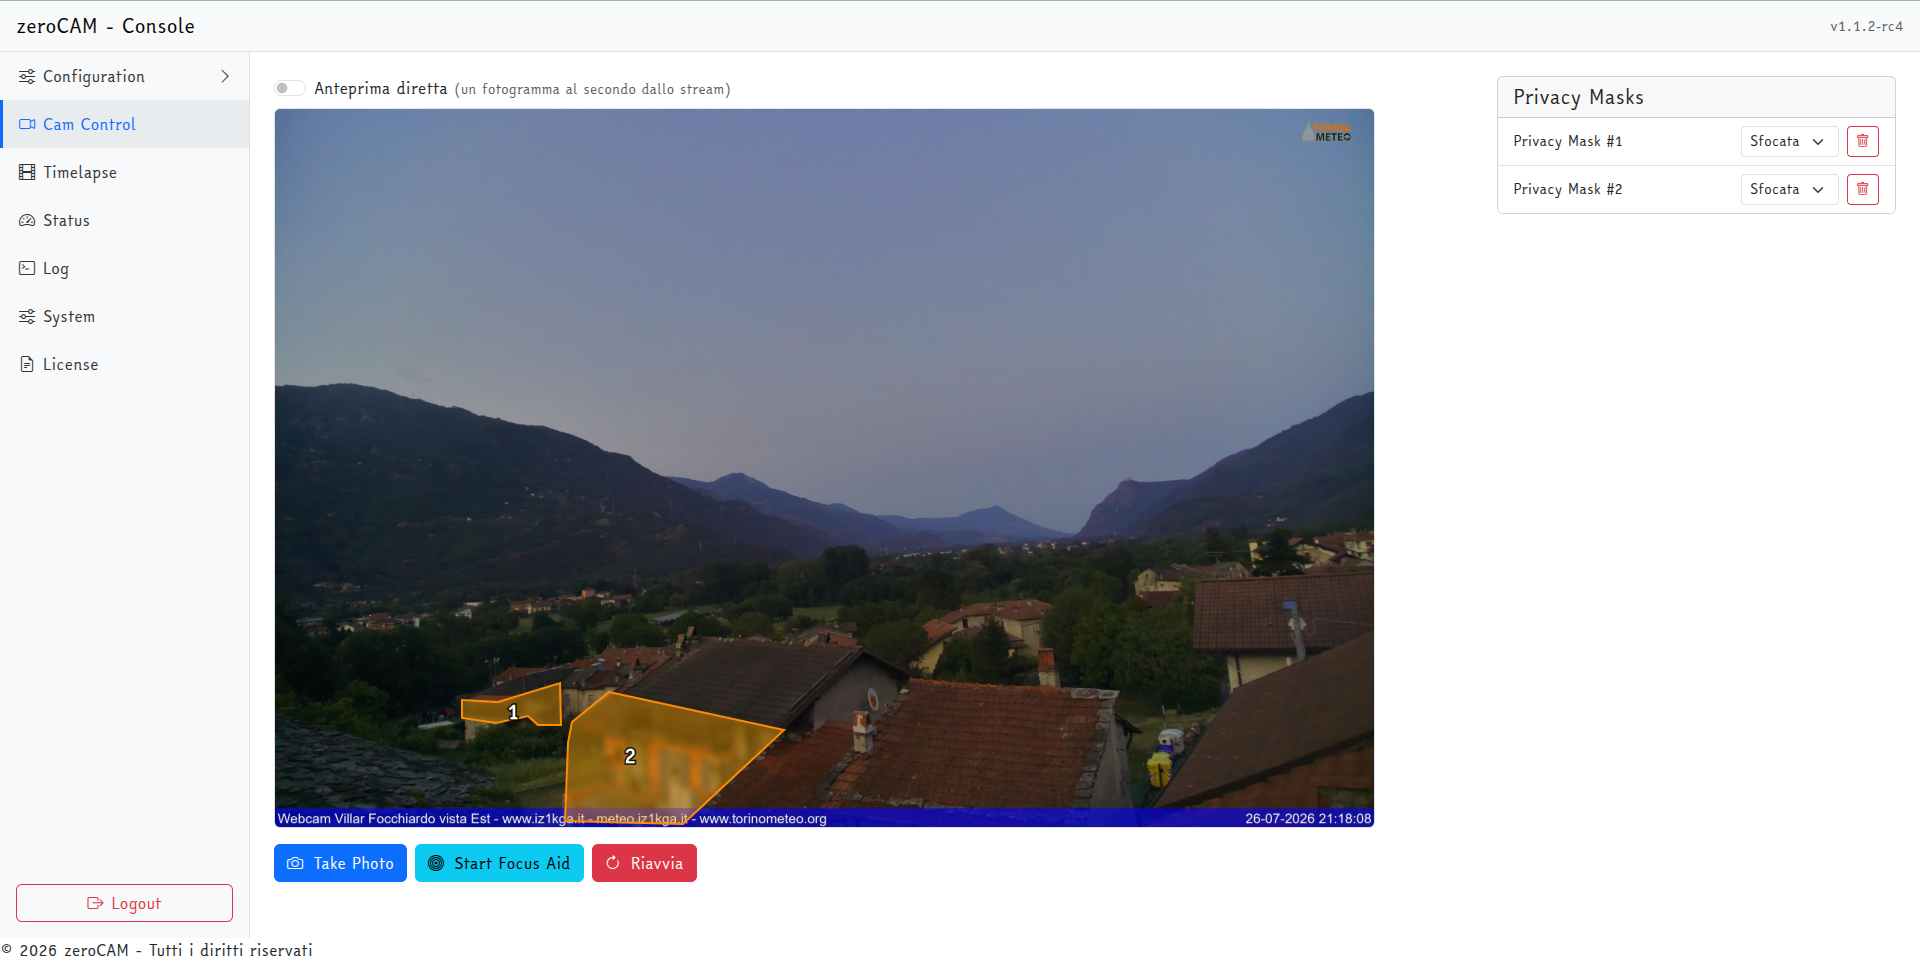
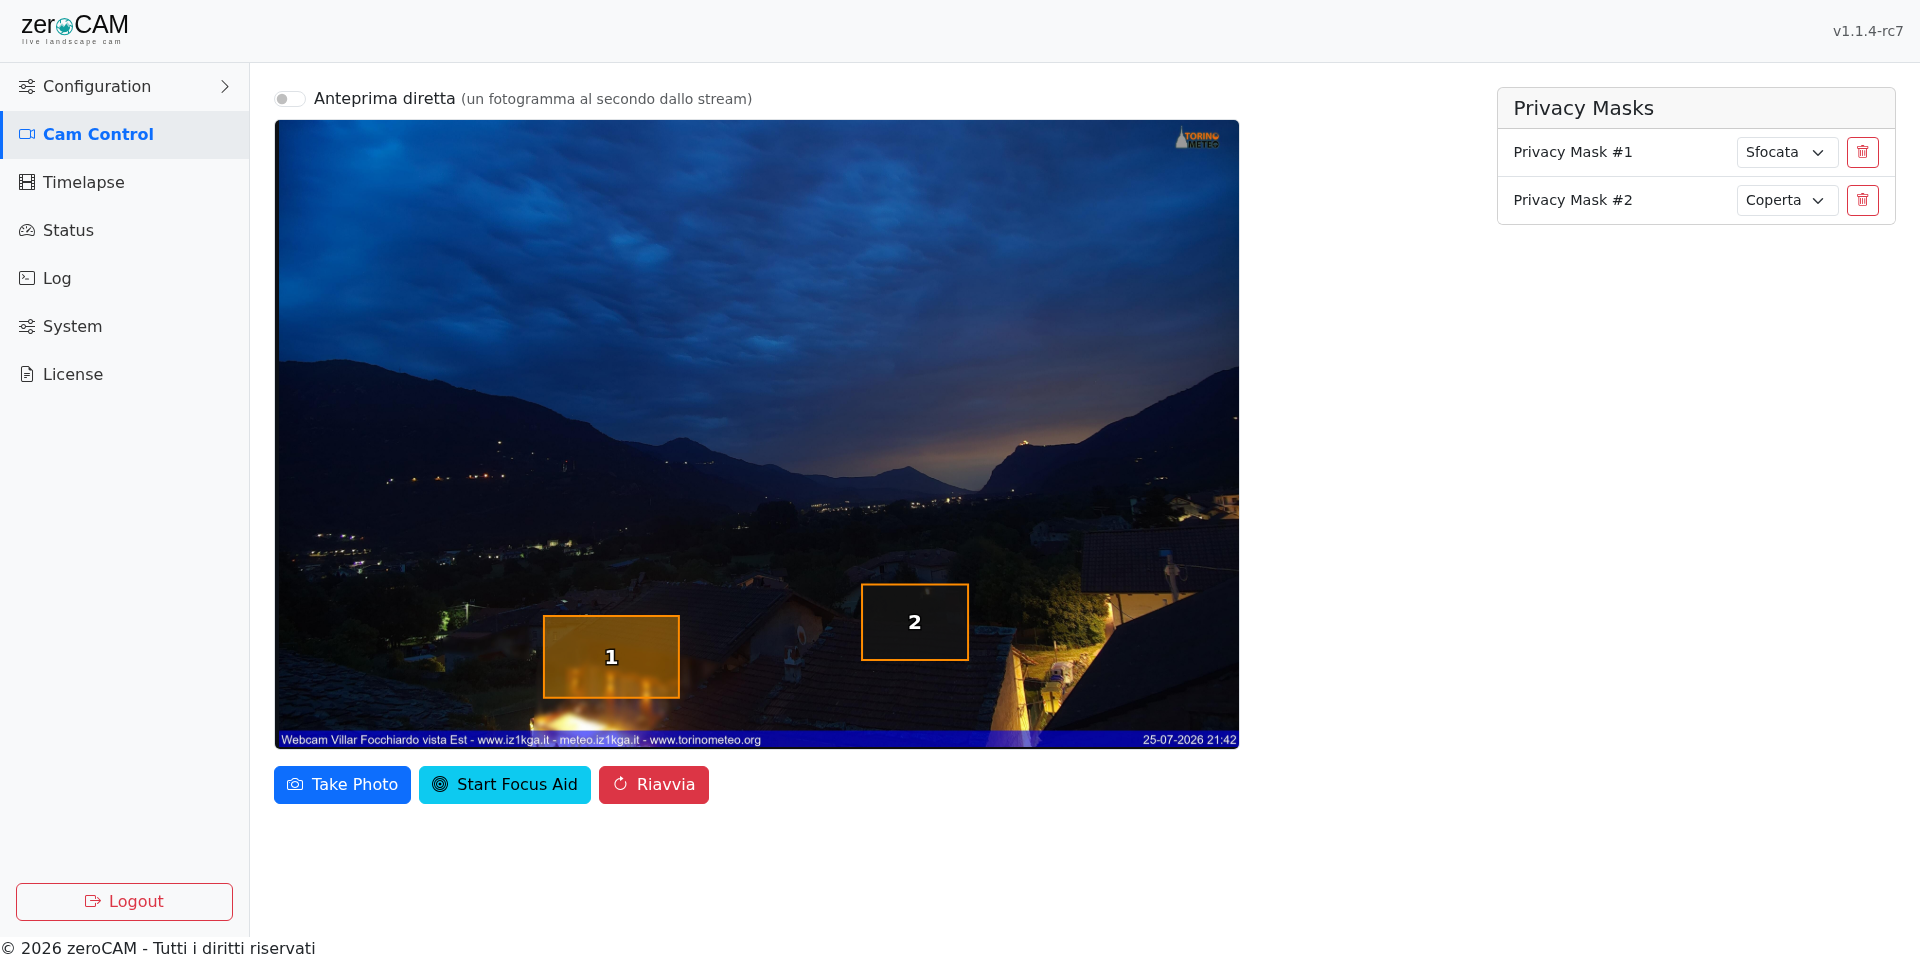
Generate the interface screenshots instead of taking them by hand
They were captured from the running device, which meant every visual
change left the manual showing an older interface, mixed versions
across chapters, and real stream keys and client IDs to redact by hand.

doc/img/genera-screenshot.py serves the real templates, app.js, CSS and
brand files against a fake backend with sample data and photographs
every page with headless Chromium, all at one size and one version.
Ten pages regenerated: they now carry the new header mark, the audio
and assets fields, and nothing that needs covering.

diff --git a/doc/img/genera-screenshot.py b/doc/img/genera-screenshot.py
@@ -1,0 +1,251 @@
+# -*- coding: utf-8 -*-
+"""
+Genera gli screenshot dell'interfaccia per il manuale.
+
+Serve i template, gli static e le pagine veri dell'applicazione con un
+backend finto: quello che si vede e' l'interfaccia che vedra' l'utente,
+i dati sono di esempio. Cosi' gli screenshot si rifanno a ogni modifica
+senza toccare la webcam e senza che finiscano segreti nel PDF.
+
+    python uishots.py v1.1.4-rc7
+"""
+
+import io
+import json
+import os
+import sys
+import threading
+import time
+
+from flask import Flask, Response, jsonify, render_template, send_file, send_from_directory
+
+REPO = "/home/mgiolo/Personale/repos/zeroCam"
+OUT = os.path.join(os.path.dirname(os.path.abspath(__file__)), "shots")
+VERSION = sys.argv[1] if len(sys.argv) > 1 else "v1.1.4"
+PORT = 8931
+
+sys.path.insert(0, REPO)
+from lib.components.config_manager import DEFAULT_SECTIONS  # noqa: E402
+
+app = Flask(__name__,
+            template_folder=os.path.join(REPO, "templates"),
+            static_folder=os.path.join(REPO, "static"))
+app.context_processor(lambda: {"version": VERSION})
+
+CONFIG = json.load(open(os.path.join(REPO, ".conf.json")))
+for section, defaults in DEFAULT_SECTIONS.items():
+    current = CONFIG.setdefault(section, {})
+    for key, value in defaults.items():
+        current.setdefault(key, value)
+
+# Valori di esempio: plausibili come in un impianto vero, ma inventati.
+CONFIG["deviceDetails"].update(name="Villar Focchiardo - Borgata Comba")
+CONFIG["streamParameters"].update(
+    enabled=True, width=2560, height=1440,
+    yt_api_key="chiave-di-streaming", overlay=True,
+    extra_destinations=["rtmp://live.twitch.tv/app/live_000000_esempio"],
+    audio_file="asset:audio/default_stream_audio.mp3", audio_volume=25,
+)
+CONFIG["youtubeLive"].update(
+    enabled=True, client_id="000000000000-esempio.apps.googleusercontent.com",
+    client_secret="segreto", refresh_token="token",
+    title="Villar Focchiardo - Live Webcam {date}",
+    description="Vista verso est dalla Borgata Comba",
+    daily_reset_time="00:00",
+)
+CONFIG["timelapse"].update(
+    enabled=True, retention_weeks=4, min_frames=200,
+    title="Timelapse {from} - {to}", description="Una settimana in un minuto",
+    audio_file="asset:audio/brano-di-sottofondo.mp3", audio_volume=30,
+)
+CONFIG["OverlayImages"] = [
+    {"enabled": True, "name": "Logo TorinoMeteo", "url": "asset:logo/TMLogo.png",
+     "X": 3780, "Y": 15, "scale": 220, "opacity": 80},
+    {"enabled": True, "name": "Logo zeroCAM", "url": "asset:logo/ZC_logo_alfa.png",
+     "X": 25, "Y": 25, "scale": 250, "opacity": 80},
+]
+CONFIG["Annotation"]["Content"]["Text"] = "Villar Focchiardo (TO) - Borgata Comba"
+CONFIG["settingsManager"].update(https_enabled=True, https_hostnames=["webcam.esempio.it"])
+
+ASSETS = [
+    {"category": "audio", "name": "default_stream_audio.mp3",
+     "reference": "asset:audio/default_stream_audio.mp3", "size": 1445528, "modified": 0},
+    {"category": "audio", "name": "brano-di-sottofondo.mp3",
+     "reference": "asset:audio/brano-di-sottofondo.mp3", "size": 3211264, "modified": 0},
+    {"category": "logo", "name": "TMLogo.png",
+     "reference": "asset:logo/TMLogo.png", "size": 18422, "modified": 0},
+    {"category": "logo", "name": "ZC_logo_alfa.png",
+     "reference": "asset:logo/ZC_logo_alfa.png", "size": 3110, "modified": 0},
+]
+
+# Una foto vera dell'impianto, gia' presente fra le immagini del manuale
+PHOTO = os.path.join(REPO, "doc", "img", "foto-annotata.png")
+
+def _roi(id, mode, box):
+    x0, y0, x1, y1 = box
+    return {"id": id, "mode": mode,
+            "points": [{"x": x0, "y": y0}, {"x": x1, "y": y0},
+                       {"x": x1, "y": y1}, {"x": x0, "y": y1}]}
+
+
+ROIS = [_roi(1, "blur", (28.0, 79.0, 42.0, 92.0)),
+        _roi(2, "filled", (61.0, 74.0, 72.0, 86.0))]
+
+DAYS = [{"day": "2026-07-28", "count": 61}, {"day": "2026-07-27", "count": 144},
+        {"day": "2026-07-26", "count": 144}, {"day": "2026-07-25", "count": 144}]
+FRAMES = [f"20260728-{h:02d}{m:02d}00.jpg" for h in range(6, 16) for m in (0, 10, 20, 30, 40, 50)]
+
+LOG = "\n".join([
+    "2026-07-28 10:40:01,102 - SchedulerThread - INFO - Capture job scheduled every 600 seconds.",
+    "2026-07-28 10:40:02,455 - Thread-3 (capture_job) - INFO - --- Inizio cattura per 'day' ---",
+    "2026-07-28 10:40:02,470 - Thread-3 (capture_job) - INFO - Modalita' diurna: uso l'esposizione automatica (AeEnable=True).",
+    "2026-07-28 10:40:02,471 - Thread-3 (capture_job) - INFO - Bilanciamento del bianco automatico, modalita' 5",
+    "2026-07-28 10:40:04,613 - Thread-3 (capture_job) - INFO - Cattura diurna completata in 2.1s. Gain: 1.00, Esposizione: 0.0002s",
+    "2026-07-28 10:40:05,004 - Thread-3 (capture_job) - INFO - Loaded 2 privacy mask(s).",
+    "2026-07-28 10:40:05,880 - Thread-3 (capture_job) - INFO - Added Logo TorinoMeteo at 3780, 15",
+    "2026-07-28 10:40:06,120 - Thread-3 (capture_job) - INFO - Uploading to upload.esempio.it",
+    "2026-07-28 10:40:09,455 - Thread-3 (capture_job) - INFO - Capture job finished in 7.0s.",
+    "2026-07-28 10:40:10,201 - Thread-3 (capture_job) - INFO - Reusing YouTube broadcast Ab12Cd34 (started after the daily reset of 28/07/2026 00:00).",
+    "2026-07-28 10:40:10,890 - YouTubeStreamThread - INFO - Audio dello streaming: default_stream_audio.mp3 al 25% di volume.",
+    "2026-07-28 10:40:11,002 - YouTubeStreamThread - INFO - Restreaming to 2 destinations: a.rtmp.youtube.com, live.twitch.tv",
+])
+
+
+@app.route("/")
+def index():
+    return render_template("index.html")
+
+
+@app.route("/view/pages/<page_name>")
+def page(page_name):
+    return send_from_directory(os.path.join(REPO, "templates", "pages"), page_name)
+
+
+@app.route("/api/config")
+def api_config():
+    return jsonify(CONFIG)
+
+
+@app.route("/api/schema")
+def api_schema():
+    return jsonify(json.load(open(os.path.join(REPO, "config_schema.json"))))
+
+
+@app.route("/api/assets")
+def api_assets():
+    return jsonify(success=True, assets=ASSETS, categories={"audio": "Audio", "logo": "Loghi"})
+
+
+@app.route("/assets/<category>/<name>")
+def asset_file(category, name):
+    return send_from_directory(os.path.join(REPO, "static", "brand"), "zc_logo_primary.png")
+
+
+@app.route("/latest.jpg")
+@app.route("/stream_latest.jpg")
+@app.route("/timelapse/frame/<name>")
+def photo(name=None):
+    return send_file(PHOTO, mimetype="image/jpeg")
+
+
+@app.route("/api/privacy_mask")
+def api_mask():
+    return jsonify(ROIS)
+
+
+@app.route("/api/status/capture")
+def status_capture():
+    return jsonify(is_capturing=False, elapsed=0)
+
+
+@app.route("/api/status/stream")
+def status_stream():
+    return jsonify(running=True)
+
+
+@app.route("/api/timelapse")
+def api_timelapse():
+    return jsonify(frames=1008, bytes=1104224256, oldest="20260721-060000.jpg",
+                   newest="20260728-153000.jpg",
+                   last_result={"status": "ok", "when": "2026-07-27 03:12",
+                                "frames": 1002, "video": "timelapse-20260727-031204.mp4",
+                                "url": "https://youtu.be/esempio"})
+
+
+@app.route("/api/timelapse/frames")
+def api_frames():
+    from flask import request
+    day = request.args.get("day")
+    if not day:
+        return jsonify(days=DAYS)
+    return jsonify(day=day, frames=FRAMES)
+
+
+@app.route("/api/log")
+def api_log():
+    return Response(LOG, mimetype="text/plain")
+
+
+@app.route("/api/stats")
+def api_stats():
+    now = time.time()
+    import math
+    history = []
+    for i in range(60):
+        wave = math.sin(i / 9.0) + 0.35 * math.sin(i / 2.3)
+        temp = 55 + 3.5 * wave
+        cpu = 19 + 6 * math.sin(i / 7.0 + 1.2) + 2 * math.sin(i / 1.7)
+        history.append({
+            "timestamp": now - (60 - i) * 60,
+            "cpuTemperature": {"min": round(temp - 3.2, 1), "max": round(temp + 4.1, 1),
+                               "average": round(temp, 1)},
+            "cpuUsage": {"min": round(max(0.5, cpu - 14), 1), "max": round(cpu + 11, 1),
+                         "average": round(cpu, 1)},
+        })
+    return jsonify(latest={"cpuTemperature": 56.8, "cpuUsage": 25.6, "diskUsage": 22.3,
+                           "memoryUsage": 25.5, "loadAverage": [0.96, 1.0, 0.96],
+                           "timestamp": now},
+                   history=history)
+
+
+PAGES = [
+    ("ui-cam-control", "control", None),
+    ("ui-status", "status", None),
+    ("ui-timelapse-galleria", "timelapse", None),
+    ("ui-system-backup", "system", None),
+    ("ui-config-camera", "config", "cameraParameters"),
+    ("ui-config-stream", "config", "streamParameters"),
+    ("ui-config-timelapse", "config", "timelapse"),
+    ("ui-config-annotation", "config", "annotation"),
+    ("ui-config-overlays", "config", "overlayImages"),
+    ("ui-config-assets", "config", "assets"),
+]
+
+
+def capture():
+    from playwright.sync_api import sync_playwright
+
+    os.makedirs(OUT, exist_ok=True)
+    with sync_playwright() as p:
+        browser = p.chromium.launch()
+        page = browser.new_page(viewport={"width": 1920, "height": 961})
+        for name, main, sub in PAGES:
+            page.goto(f"http://127.0.0.1:{PORT}/", wait_until="load")
+            page.wait_for_selector(".sidebar")
+            page.evaluate(
+                """([main, sub]) => {
+                    const vm = document.querySelector('#app').__vue_app__._instance.proxy;
+                    vm.page = main;
+                    if (sub) vm.configPage = sub;
+                }""", [main, sub])
+            # Grafici e immagini hanno bisogno di un attimo per comparire
+            page.wait_for_timeout(2500)
+            page.screenshot(path=os.path.join(OUT, name + ".png"))
+            print("scritto", name)
+        browser.close()
+
+
+if __name__ == "__main__":
+    threading.Thread(target=lambda: app.run(port=PORT, threaded=True), daemon=True).start()
+    time.sleep(1.5)
+    capture()

diff --git a/doc/img/README.md b/doc/img/README.md
@@ -18,12 +18,19 @@ sudo apt install graphviz python3-matplotlib
 
 ## Schermate
 
-Sono state acquisite dal dispositivo in funzione, unico posto dove l'interfaccia mostra dati veri. Vanno rifatte quando la pagina corrispondente cambia aspetto. Regole di acquisizione:
+Si rigenerano da qui, senza toccare la webcam:
 
-* browser a **1400 px** di larghezza, zoom al 100%, finestra senza barre di sviluppo;
-* ritagliare solo l'area utile (non serve la barra del browser), formato **PNG**;
-* nessun dato riservato a schermo: chiave di streaming, token, Client Secret e Refresh Token vanno oscurati o svuotati prima dello scatto;
-* nome del file esattamente come in tabella, in questa cartella.
+```bash
+pip install flask playwright pillow && playwright install chromium
+python3 genera-screenshot.py v1.1.4
+cp shots/*.png .
+```
+
+Lo script fa girare l'interfaccia vera - gli stessi template, `app.js`, CSS e loghi del repository - contro un backend finto che risponde alle API con dati d'esempio, e la fotografa con Chromium a 1920×961. Ne discendono tre vantaggi: le schermate restano tutte alla stessa versione e allo stesso aspetto, si rifanno in un minuto dopo ogni modifica all'interfaccia, e non contengono un solo dato reale da oscurare.
+
+Le pagine da catturare sono elencate in `PAGES` dentro lo script; i dati d'esempio - configurazione, assets, maschere, statistiche, log - stanno in cima allo stesso file.
+
+Restano acquisite a mano solo le schermate che l'applicazione non può mostrare da sé, come quelle della Google Cloud Console (`gcp-*.png`). Per quelle vale: zoom al **100%**, nessun dato riservato a schermo (Client ID, Client Secret, chiavi di streaming), e un rettangolo pieno - non una sfocatura - su ciò che va coperto.
 
 | File | Cosa inquadrare | Capitolo |
 |---|---|---|
@@ -33,9 +40,11 @@ Sono state acquisite dal dispositivo in funzione, unico posto dove l'interfaccia
 | `ui-config-stream.png` | Configuration → Stream, dalla chiave (oscurata) fino alle destinazioni aggiuntive | 09 |
 | `ui-config-annotation.png` | Configuration → Annotation con i campi compilati | 07 |
 | `ui-config-timelapse.png` | Configuration → Timelapse | 10 |
+| `ui-config-overlays.png` | Configuration → Overlays con i loghi presi dagli assets | 07 |
+| `ui-config-assets.png` | Configuration → Assets con audio e loghi caricati | 07 |
 | `ui-timelapse-galleria.png` | Pagina Timelapse con galleria e riquadro di stato | 10 |
 | `ui-status.png` | Pagina Status con indicatori e grafici popolati | 12 |
-| `ui-system-backup.png` | Pagina System, sezione backup e ripristino | 12 |
+| `ui-system-backup.png` | Pagina System: password, porte e certificato, backup | 12 |
 | `foto-annotata.png` | Uno scatto pubblicato, con barra di annotazione e logo | 07 |
 | `foto-privacy.png` | Uno scatto con una zona sfocata e una coperta, ben riconoscibili | 06 |
 

diff --git a/doc/12-manutenzione.md b/doc/12-manutenzione.md
@@ -6,7 +6,7 @@ Dalla pagina **System** si scarica l'intera configurazione — privacy mask comp
 
 Sul dispositivo i segreti sono cifrati con `ZEROCAM_SECRET_KEY`, che vive nell'ambiente del servizio: copiare `.conf.json` così com'è darebbe un backup illeggibile su un'installazione nuova. Il backup viene quindi costruito dalla configurazione decifrata e richiuso subito con una **passphrase scelta al momento del download** (PBKDF2-SHA256 e Fernet, con sale casuale). Il file non contiene nulla in chiaro ed è ripristinabile su qualunque dispositivo, anche con una chiave segreta diversa.
 
-![La sezione di backup e ripristino nella pagina System.](img/ui-system-backup.png){ width=100% }
+![La pagina System: cambio password, porte e certificato dell'interfaccia, backup e ripristino.](img/ui-system-backup.png){ width=100% }
 
 > **La passphrase non è recuperabile.** Se si perde, il backup è inutilizzabile. Va conservata separatamente dal file.
 
